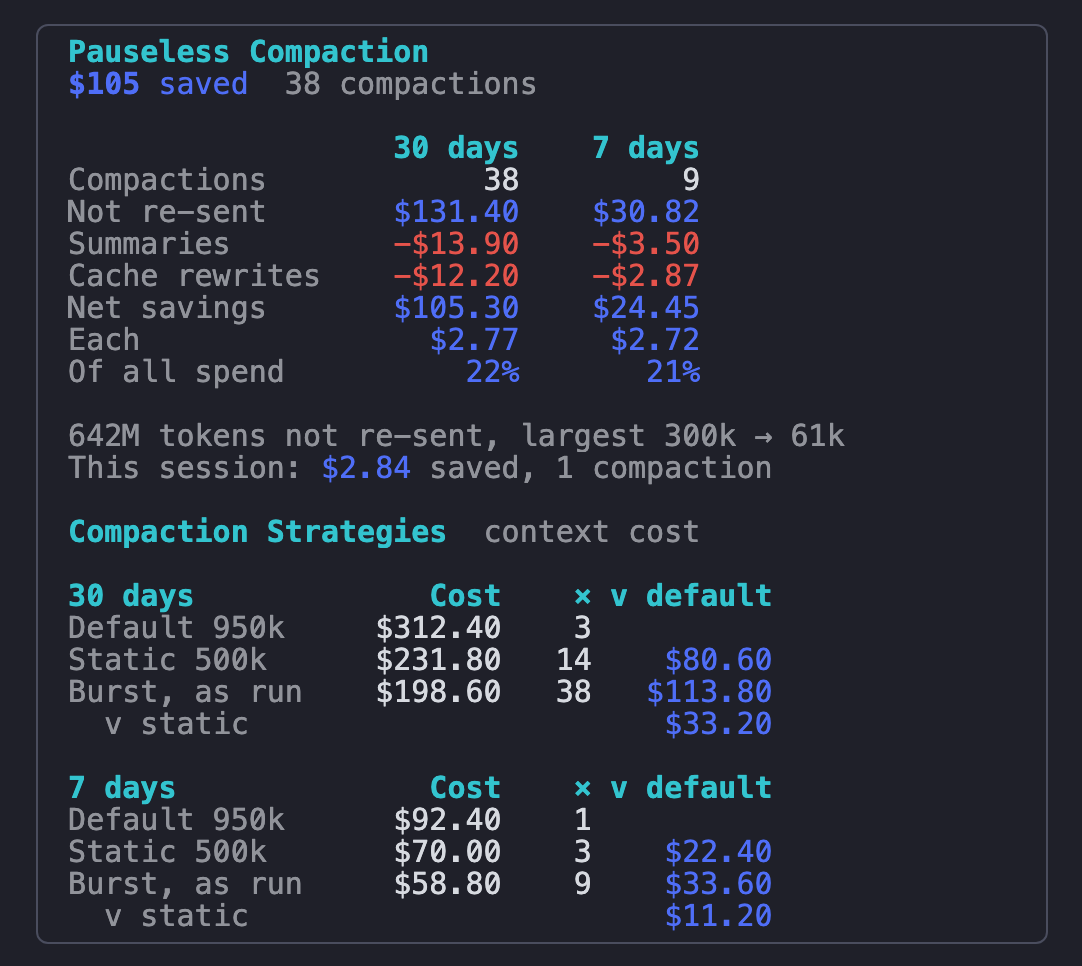
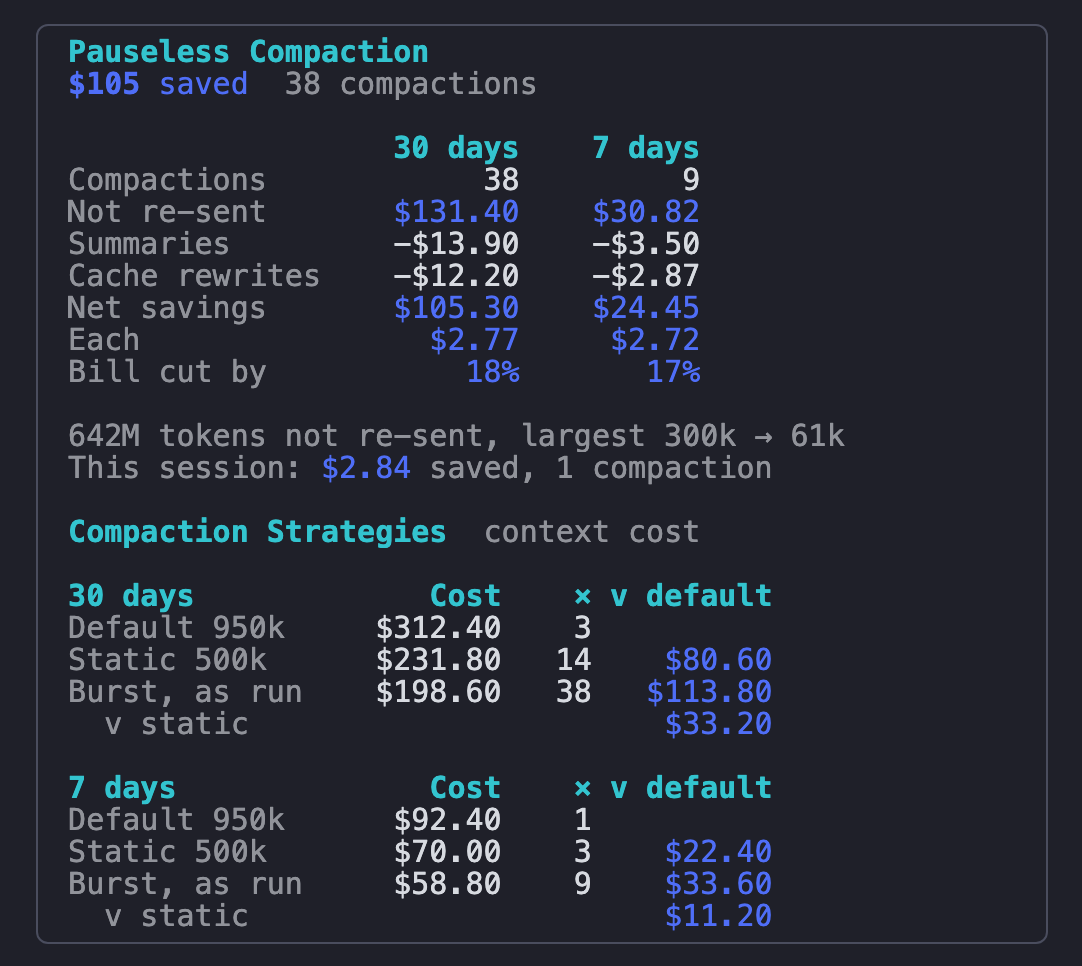
Savings tables: blue is for savings only (costs and prices have no colour), and the share is what the saving cut from the bill; README lists what needs Claude Burst (usage-panel mod 1.16.0)
Claude-Session: https://claude.ai/code/session_01WeFFCejvYqYZRxBmQn1kGn

diff --git a/mods/usage-panel/hooks/register.js b/mods/usage-panel/hooks/register.js
@@ -1125,12 +1125,12 @@ function savingsSection(Box, T, W, extra) {
   const w = lastWeek(c.daily, c.days)
   out.push(...figures(Box, T, c.days, !!w, [
     ['Compactions', String(c.n), w && String(w.n)],
-    ['Not re-sent', money(c.saved, 2), w && money(w.saved, 2)],
+    ['Not re-sent', money(c.saved, 2), w && money(w.saved, 2), true],
     ['Summaries', money(-c.summary, 2), w && money(-w.summary, 2)],
     ['Cache rewrites', money(-c.rewrite, 2), w && money(-w.rewrite, 2)],
-    ['Net savings', money(c.net, 2), w && money(w.net, 2)],
-    ['Each', c.n > 0 ? money(c.net / c.n, 2) : '', w && w.n > 0 ? money(w.net / w.n, 2) : ''],
-    ['Of all spend', ofSpend(c.net, extra.spent), w ? ofSpend(w.net, extra.spent7) : ''],
+    ['Net savings', money(c.net, 2), w && money(w.net, 2), true],
+    ['Each', c.n > 0 ? money(c.net / c.n, 2) : '', w && w.n > 0 ? money(w.net / w.n, 2) : '', true],
+    ['Bill cut by', ofSpend(c.net, extra.spent), w ? ofSpend(w.net, extra.spent7) : '', true],
   ]))
   out.push(T(' '))
   if (c.tokens > 0) {
@@ -1164,11 +1164,14 @@ function lastWeek(daily, days) {
   return out
 }
 
-// A saving as a share of what the same days cost, every provider, at API
-// rates. '' where Burst has no spend for them.
+// A saving as the share it cut from the bill: against what the same days
+// cost, every provider, at API rates, plus the saving itself. '' where
+// Burst has no spend for them.
 function ofSpend(net, spent) {
   if (!(spent > 0)) return ''
-  const p = (net / spent) * 100
+  // Against the bill as it would have been, without the saving.
+  if (!(spent + net > 0)) return ''
+  const p = (net / (spent + net)) * 100
   return (Math.abs(p) < 10 ? p.toFixed(1) : Math.round(p)) + '%'
 }
 
@@ -1183,15 +1186,17 @@ function tone(v) {
 
 // A card's figures as a table: a column for Burst's window and, where that
 // is longer than a week, one for the last 7 days. Each row is [label,
-// window, week], each figure coloured by tone().
+// window, week, saving]: a saving's figures are coloured by tone(), the
+// rest (counts, prices, what the saving cost) have no colour.
 function figures(Box, T, days, two, rows) {
   const cw = 10
   const lw = 15
-  const cell = (v, o) => T(lpad(v == null ? '' : v, cw), o || { color: tone(v) })
+  const cell = (v, o) => T(lpad(v == null ? '' : v, cw), o)
   const out = [Box({ flexDirection: 'row', marginTop: 1, children: [T(pad('', lw)), cell(days + ' days', { bold: true, color: ACCENT }), two ? cell(WEEK + ' days', { bold: true, color: ACCENT }) : ''] })]
-  for (const [label, a, b] of rows) {
+  for (const [label, a, b, saving] of rows) {
     if (!a && !b) continue
-    out.push(Box({ flexDirection: 'row', children: [T(pad(label, lw), { dimColor: true }), cell(a), two ? cell(b) : ''] }))
+    const o = (v) => (saving ? { color: tone(v) } : undefined)
+    out.push(Box({ flexDirection: 'row', children: [T(pad(label, lw), { dimColor: true }), cell(a, o(a)), two ? cell(b, o(b)) : ''] }))
   }
   return out
 }
@@ -1246,8 +1251,8 @@ function overflowSection(Box, T, W, extra) {
     ['Requests', String(o.n), w && String(w.n)],
     ['Anthropic price', money(o.list, 2), w && money(w.list, 2)],
     ['Secondary paid', money(-o.paid, 2), w && money(-w.paid, 2)],
-    ['Net savings', money(o.saved, 2), w && money(w.net, 2)],
-    ['Of all spend', ofSpend(o.saved, extra.spent), w ? ofSpend(w.net, extra.spent7) : ''],
+    ['Net savings', money(o.saved, 2), w && money(w.net, 2), true],
+    ['Bill cut by', ofSpend(o.saved, extra.spent), w ? ofSpend(w.net, extra.spent7) : '', true],
   ]))
   if (o.priced < o.n) out.push(T((o.n - o.priced) + (o.n - o.priced === 1 ? ' request has' : ' requests have') + ' no price and ' + (o.n - o.priced === 1 ? 'is' : 'are') + ' left out', { dimColor: true, wrap: 'truncate-end' }))
   return out

diff --git a/mods/usage-panel/tests/usage-panel.test.ts b/mods/usage-panel/tests/usage-panel.test.ts
@@ -603,11 +603,11 @@ test('Pauseless Compaction shows what Burst\'s compaction saved, what it cost, a
   expect(drawn).not.toContain('"Net savings per day"')
   expect(drawn).toContain('"Each           "')
   expect(drawn).toContain('"     $6.13"')
-  // The total is named for what it is, and given as a share of the $690 spent since the first day.
+  // The total is named for what it is, and given as the share it cut from the bill: the $690 spent since the first day, plus the saving.
   expect(drawn).toContain('"Net savings    "')
-  expect(drawn).toContain('"Of all spend   "')
+  expect(drawn).toContain('"Bill cut by    "')
   expect(urls.some((u) => u.startsWith('http://127.0.0.1:7788/api/usage?range=custom&limit=1&from=2026-10-03&to='))).toBe(true)
-  expect(drawn).toContain('"       40%"')
+  expect(drawn).toContain('"       29%"')
   // Under Plan Utilisation, above Today; and it can be hidden like the rest.
   expect(drawn.indexOf('"Pauseless Compaction"')).toBeGreaterThan(drawn.indexOf('"Plan Utilisation"'))
   expect(drawn.indexOf('"Pauseless Compaction"')).toBeLessThan(drawn.indexOf('"Today"'))
@@ -696,9 +696,12 @@ test('over a 30-day window the savings tables have a column for the 30 days and 
   expect(card).toContain('"    $80.00"')
   expect(card).toContain('"    $56.00"')
   expect(card).toContain('"    -$7.00"')
-  // $80 of the $400 spent in the window; $56 of the $100 spent in the last seven days.
-  expect(card).toContain('"       20%"')
-  expect(card).toContain('"       56%"')
+  // The bill would have been $480 in the window and $156 in the last seven days: $80 and $56 cut from them.
+  expect(card).toContain('"       17%"')
+  expect(card).toContain('"       36%"')
+  // Blue is for what was saved; what it cost to save it has no colour.
+  expect((await ui.find({ type: 'Text', text: '    $80.00' })).props.color).toBe('blue')
+  expect((await ui.find({ type: 'Text', text: '   -$10.00' })).props.color).toBeUndefined()
   const over = drawn.slice(drawn.indexOf('"Overflow to Secondary"'), drawn.indexOf('"Today"'))
   expect(over).toContain('"    $15.00"')
   expect(over).toContain('"    $10.50"')

diff --git a/README.md b/README.md
@@ -39,6 +39,14 @@ Live, always-visible cost and token tracking for **[Claude Code](https://claude.
 This came out of a simple problem: AI coding agents burn tokens and money per turn, per session, per day, and none of that is visible while you're working. You only find out later, from a dashboard or an invoice, by which point the expensive session is long over and you've learned nothing you can act on. This repo is the fix: a live panel that sits next to your session and updates every few seconds.
 
 > **Companion tool: [Claude Burst](https://github.com/andrewbakercloudscale/claude-burst).** A local gateway for Claude Code (subscription-first routing with failover, pauseless compaction, session coordination, a dashboard). Each works without the other. Together, the sidebar shows the context Burst really sends, how much of your plan's 5-hour and weekly limits is used (with a warning as one gets close), and marks every pauseless compaction as it happens: see [Pauseless compaction](#pauseless-compaction-with-claude-burst).
+>
+> What needs Claude Burst, and is left out without it:
+> - the limit rows in **Plan Utilisation** and the warning as a limit gets close;
+> - the **Pauseless Compaction**, **Compaction Strategies** and **Overflow to Secondary** savings tables;
+> - the context bar by part, the compaction line on it, and `Uncompacted Size` with its **Full Async Compaction** button;
+> - `Proxy State`, the dashboard button and the `*** Async Compaction ... ***` rows in Turns.
+>
+> Everything else (the session, its turns, today, the week, projects) is read from Claude Code's own transcripts.
 
 The same panel for OpenCode lives in **[opencode-cost-usage-panel](https://github.com/andrewbakercloudscale/opencode-cost-usage-panel)**: the two were one repo until they were split apart, which is why the design notes here and there cross-reference each other.
 
@@ -211,14 +219,14 @@ A table, not a chart: one column for Burst's window and, where that is longer th
 |---|---|
 | `30 days`, `7 days` | The column headings: the window Burst keeps these figures over, and the last 7 days of it. |
 | `$105 saved` | The net saving over the window: blue when compaction has paid for itself, red (`lost`) when it has not yet. |
-| Blue and red figures | In these tables money gained is blue and money lost is red, with its minus. Counts have no colour. |
+| Blue and red figures | Blue is a saving: `Not re-sent`, `Net savings`, `Each`, `Bill cut by`. The same figure is red, with its minus, when it is a loss. Counts, prices and what the saving cost (`Summaries`, `Cache rewrites`, `Secondary paid`) have no colour. |
 | `Compactions` | How many times Burst compacted. |
 | `Not re-sent` | What the turns after each compaction would have cost with the full history still in the context. |
 | `Summaries` | What the background calls that wrote the summaries cost. |
 | `Cache rewrites` | Each compaction changes the context, so the next turn writes it to the cache once at the higher rate. |
 | `Net savings` | Not re-sent, less the other two. Red with a minus when it is a loss. |
 | `Each` | Net savings per compaction. |
-| `Of all spend` | Net savings as a share of everything spent over the same days, every provider, at API rates (from Burst's log). |
+| `Bill cut by` | The share net savings took off the bill: savings over what the same days would have cost without them (everything spent, every provider, at API rates, from Burst's log, plus the savings). |
 | `642M tokens not re-sent, largest 300k → 61k` | The same saving in tokens, and the biggest single compaction: the context before and after. In a narrow sidebar the largest has a row of its own. |
 | `This session: $2.84 saved, 1 compaction` | This session's own share. `$0.40 lost so far` in yellow means its compaction has not paid for itself yet; it does over the next few turns. |
 
